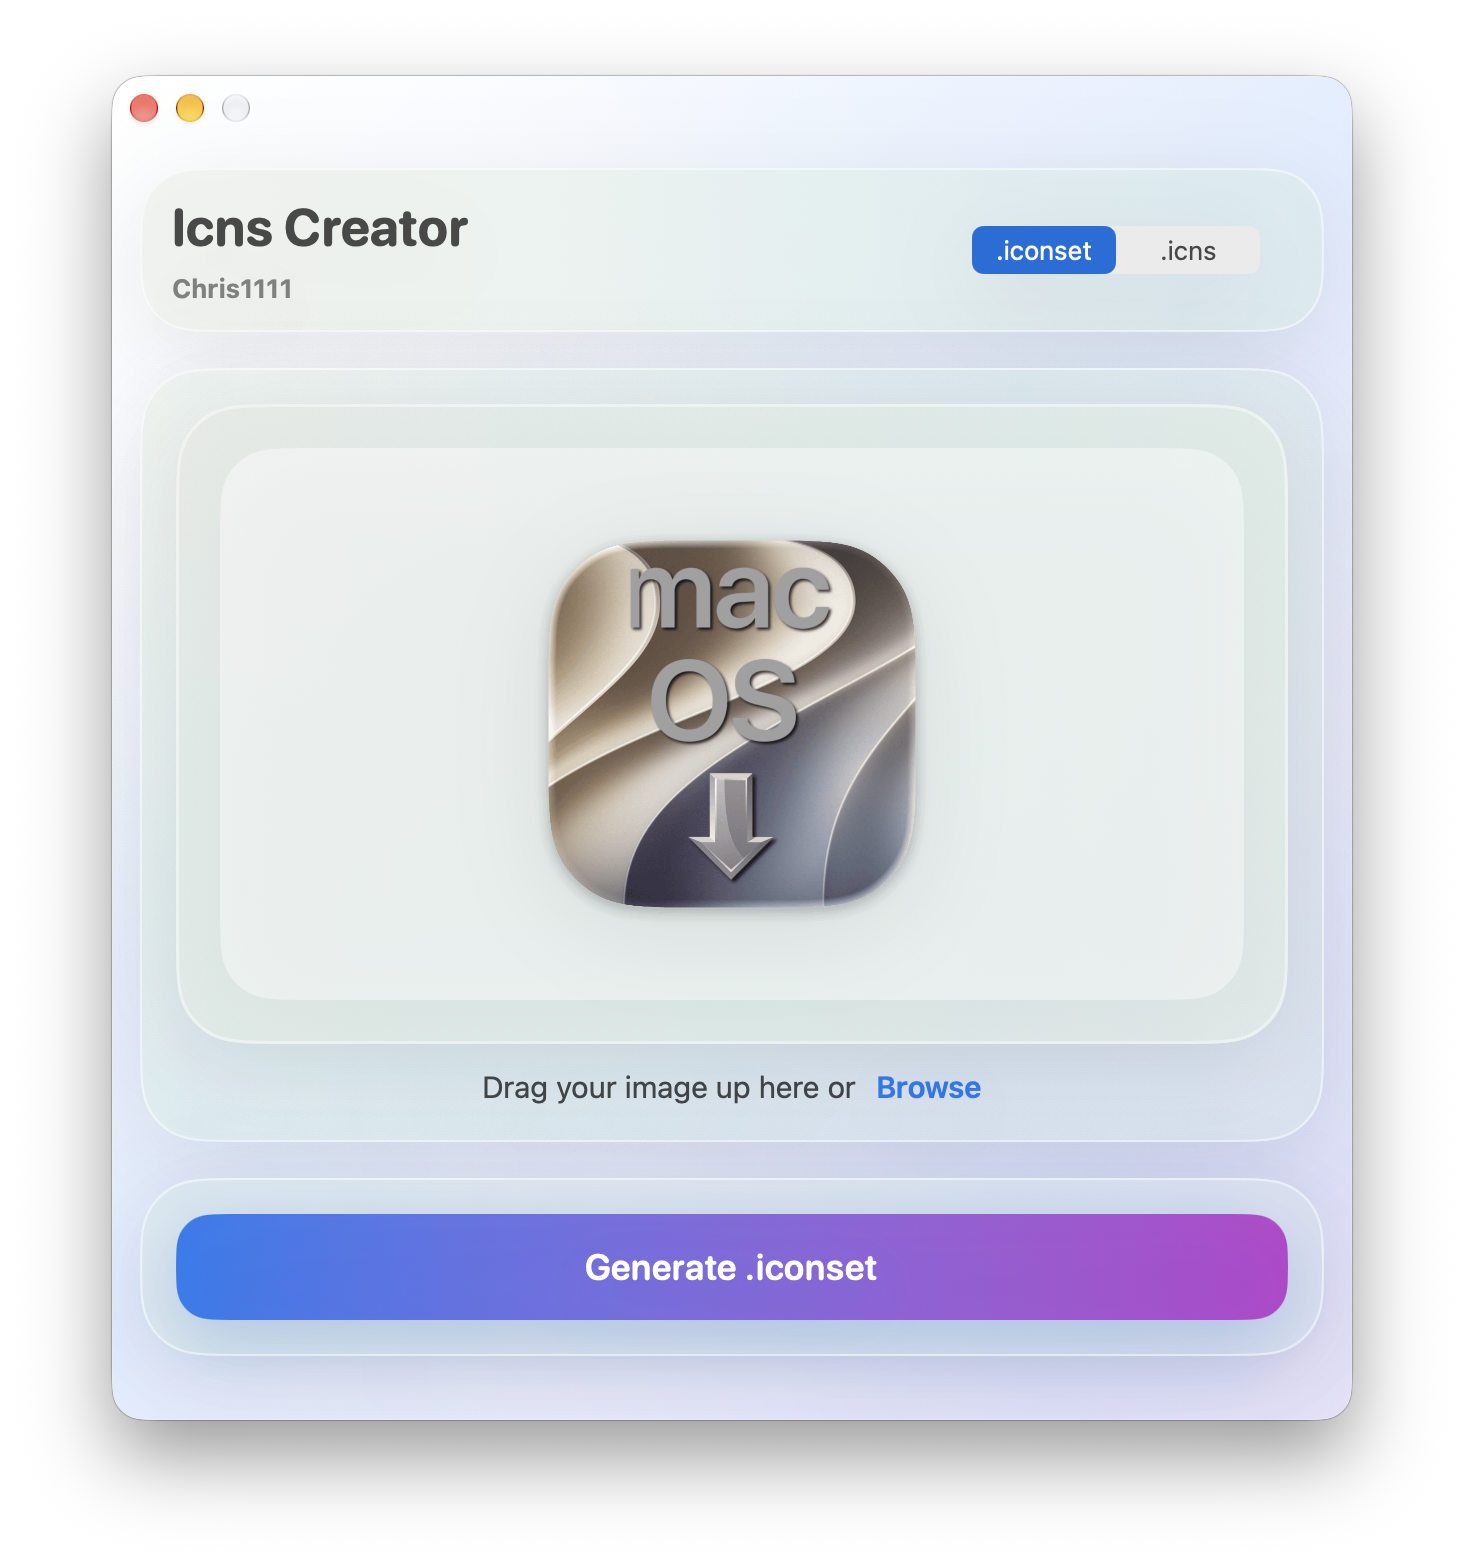
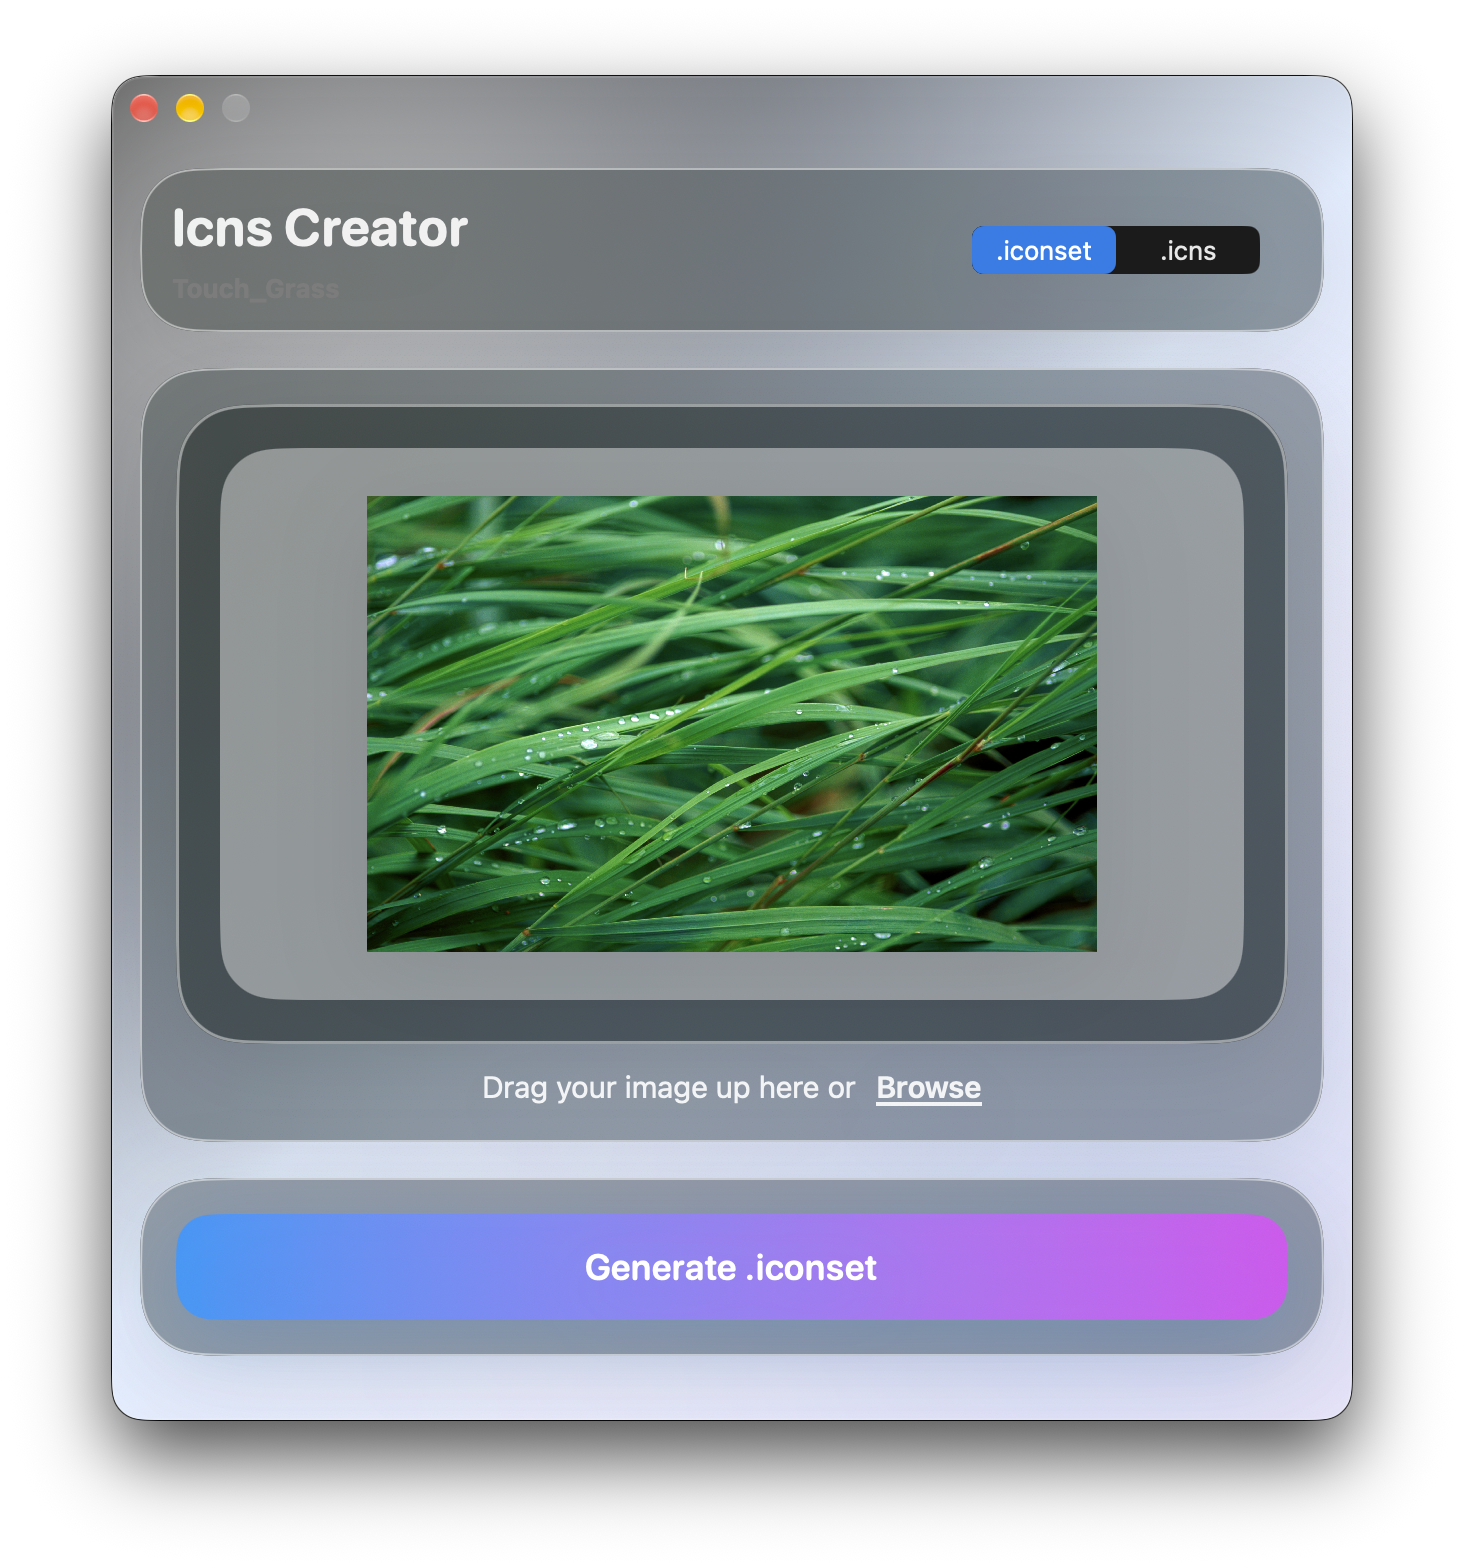
Unify export preview UI

diff --git a/Icns creator/Icns creator/Views/ContentView.swift b/Icns creator/Icns creator/Views/ContentView.swift
@@ -129,7 +129,7 @@ struct CommonView: View {
 
     var body: some View {
         VStack(spacing: 16) {
-            PreviewDropCard(selectedTab: selectedTab)
+            PreviewDropCard()
 
             if g.selectedImage != nil && selectedTab == 1 {
                 IcnsOptionsCard()
@@ -140,7 +140,6 @@ struct CommonView: View {
 
 struct PreviewDropCard: View {
     @EnvironmentObject var g: GlobalVariables
-    let selectedTab: Int
 
     private var hasImage: Bool {
         g.selectedImage != nil
@@ -164,7 +163,7 @@ struct PreviewDropCard: View {
                         )
 
                     if hasImage, let image = g.selectedImage {
-                        PreviewImageStage(selectedTab: selectedTab, image: image)
+                        PreviewImageStage(image: image)
                             .padding(22)
                     } else {
                         PlaceholderStage()
@@ -264,36 +263,16 @@ struct PlaceholderStage: View {
 }
 
 struct PreviewImageStage: View {
-    @EnvironmentObject var g: GlobalVariables
-    let selectedTab: Int
     let image: NSImage
-
-    private var cornerRadius: CGFloat {
-        g.enableRoundedCorners && selectedTab == 1 ? 44 : 0
-    }
-
-    private var previewPadding: CGFloat {
-        g.enablePadding && selectedTab == 1 ? 34 : 0
-    }
 
     var body: some View {
         ZStack {
             RoundedRectangle(cornerRadius: 28, style: .continuous)
                 .fill(Color.white.opacity(0.42))
 
-            if selectedTab == 1 {
-                RoundedRectangle(cornerRadius: cornerRadius, style: .continuous)
-                    .fill(Color(g.selectedBackgroundColor))
-                    .padding(previewPadding)
-                    .shadow(color: Color.black.opacity(g.enableIconShadow ? 0.14 : 0), radius: g.enableIconShadow ? 24 : 0, y: 12)
-            }
-
             Image(nsImage: image)
                 .resizable()
                 .aspectRatio(contentMode: .fit)
-                .padding(previewPadding)
-                .clipShape(RoundedRectangle(cornerRadius: cornerRadius, style: .continuous))
-                .shadow(color: Color.black.opacity(g.enableIconShadow && selectedTab == 1 ? 0.16 : 0), radius: g.enableIconShadow && selectedTab == 1 ? 18 : 0, y: 10)
                 .padding(24)
         }
         .frame(maxWidth: .infinity, minHeight: 220)

diff --git a/Icns creator/Icns creator/Icns_creatorApp.swift b/Icns creator/Icns creator/Icns_creatorApp.swift
@@ -86,8 +86,8 @@ class GlobalVariables: ObservableObject {
 }
 
 // Window dimension constants
-let kDefaultWindowWidth: CGFloat = 620
-let kDefaultWindowHeight: CGFloat = 640
+let kDefaultWindowWidth: CGFloat = 626
+let kDefaultWindowHeight: CGFloat = 626
 let kMaximumWindowHeight: CGFloat = 980
 
 /// Wrapper view to ensure each window gets its own GlobalVariables instance

diff --git a/README.md b/README.md
@@ -13,8 +13,8 @@ Download the app from <a href="https://github.com/perez987/Icns-creator/releases
 
 |  | 
 |:----|
-| ![Window](Images/Screenshots/Main-window.png) |
 | ![Window](Images/Screenshots/Export-iconset.png) |
+| ![Window](Images/Screenshots/Export-icns.png) |
 
 Icns Creator is a macOS application that allows you to easily create icns or icons files from any PNG or JPG image file. With this tool, you can quickly generate high-quality icns files to use as icons for your macOS applications or generate a single appropriate .iconset file to be easily included in Xcode projects.
 
@@ -146,4 +146,5 @@ If you have any questions, suggestions, or feedback, please feel free to use Iss
 - [x] ~~Fix Cmd+N to open fresh window instead of inheriting state~~
 - [x] ~~Add localization system with language selector~~
 - [x] ~~Update the UI design to make it more modern and user-friendly~~
-- [x] ~~Preserve PNG alpha in .icns and .iconset export.~~
+- [x] ~~Preserve PNG alpha in .icns and .iconset export~~
+- [x] ~~Unify image preview in both .icns and .iconset tabs.~~
